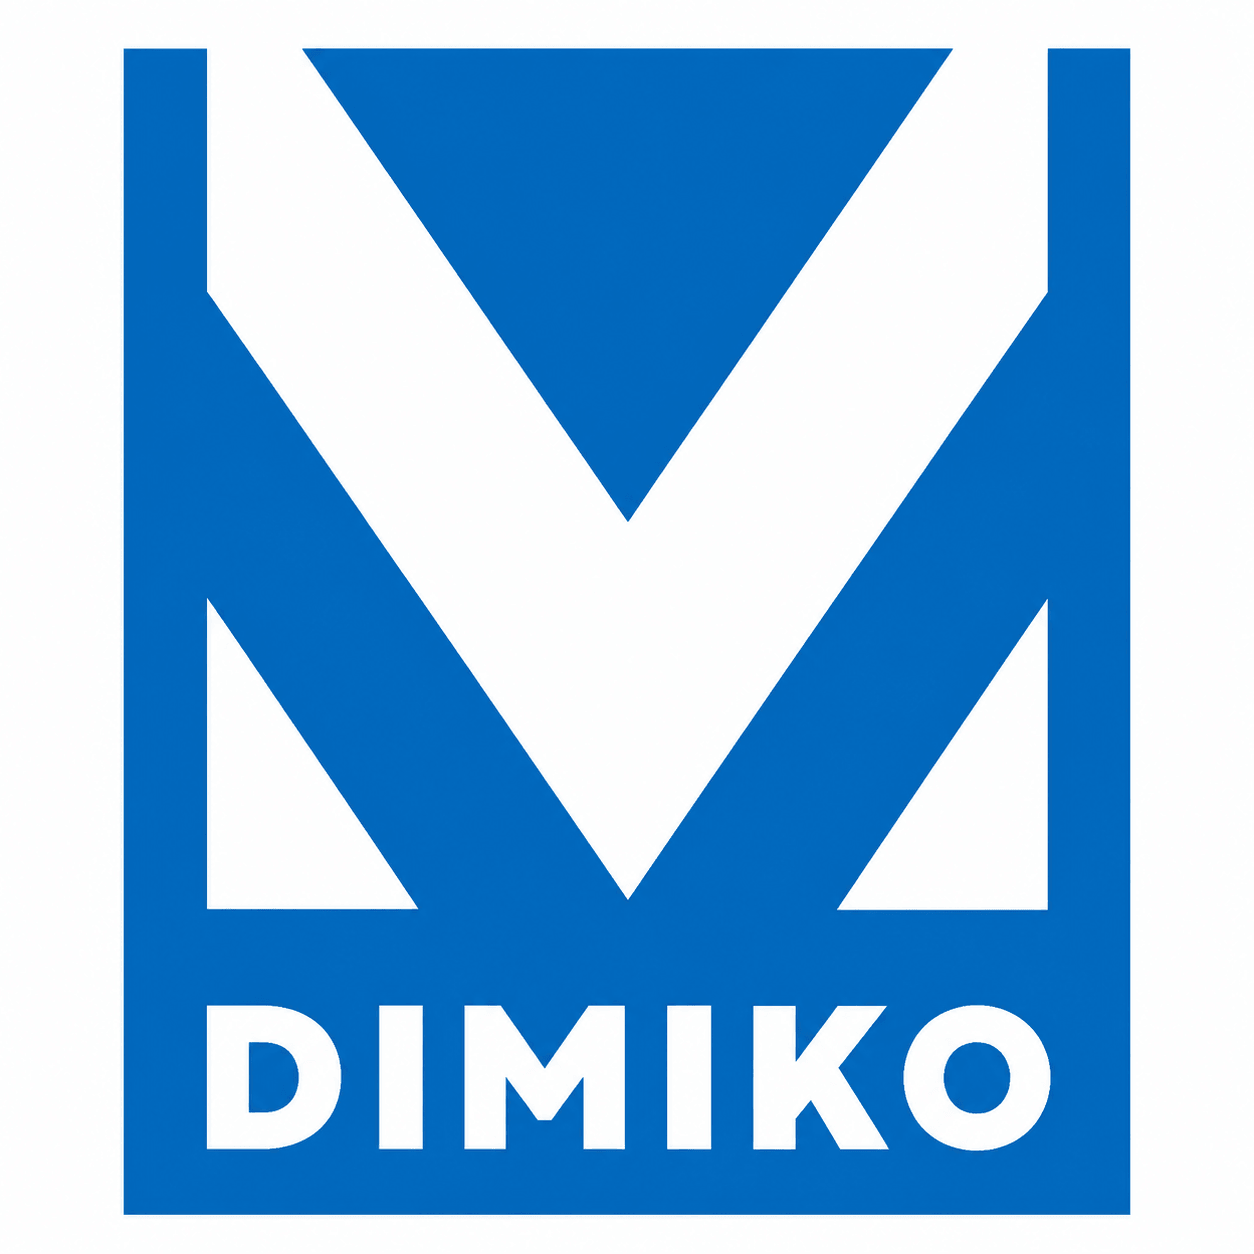
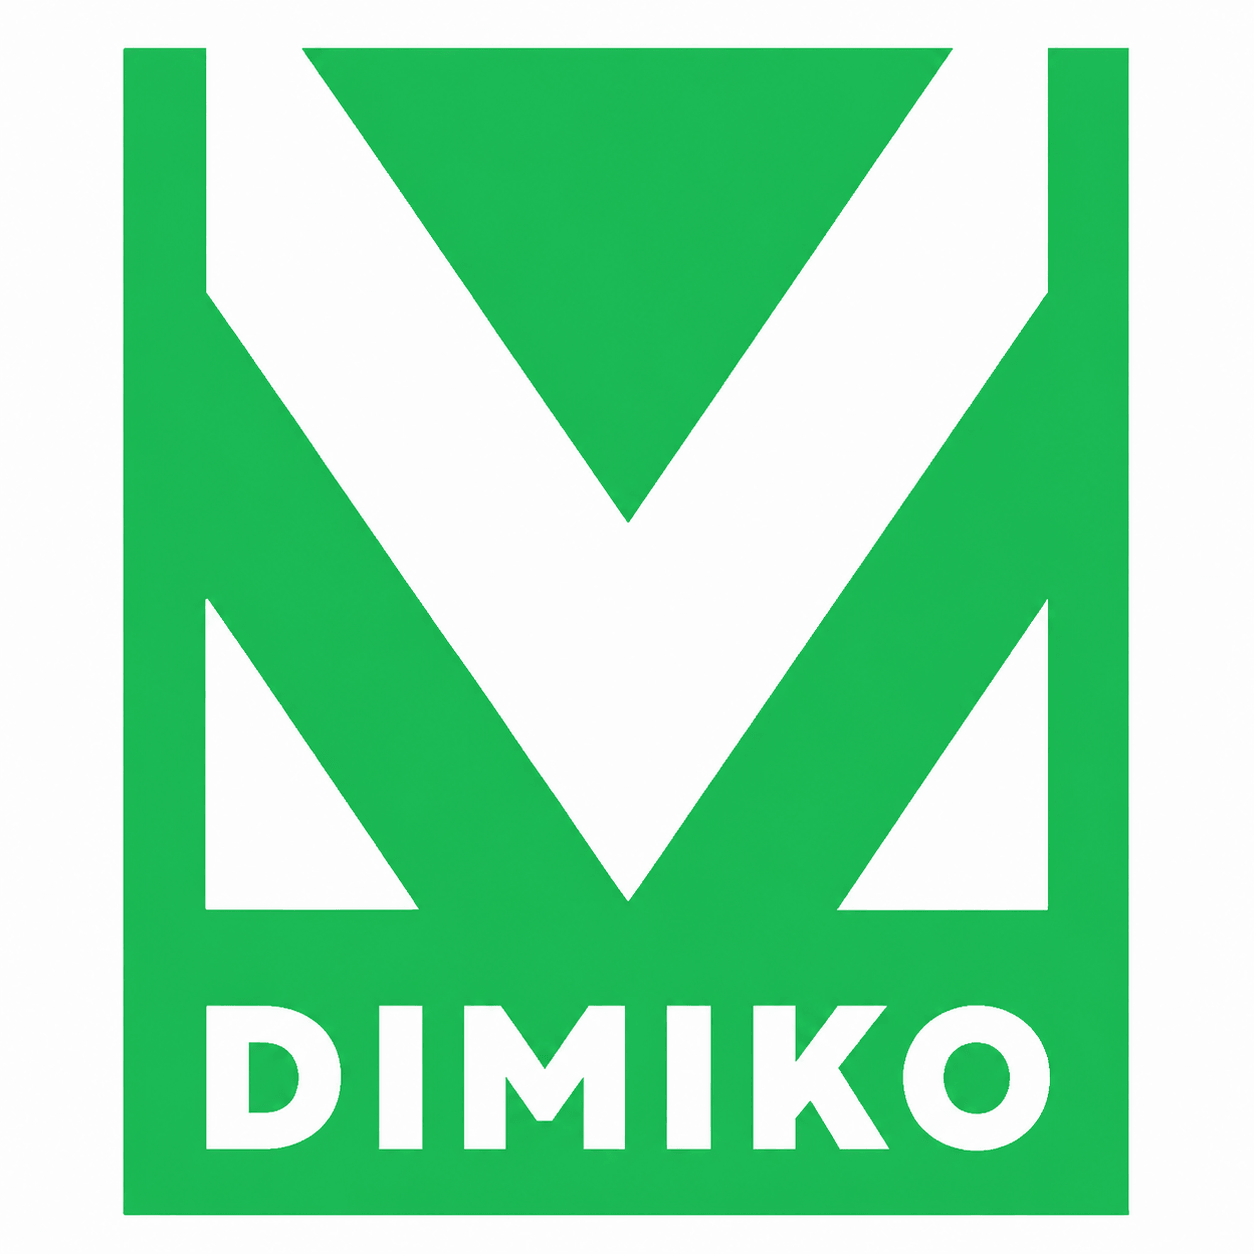
docs: 調整 README

diff --git a/ECommerce.Web/wwwroot/css/site.css b/ECommerce.Web/wwwroot/css/site.css
@@ -68,19 +68,6 @@
     filter: brightness(0.9);
 }
 
-/* Click animation for product cards */
-/*@keyframes pulse-ring {
-    0% {
-        transform: scale(1);
-        opacity: 1;
-    }
-
-    100% {
-        transform: scale(1.3);
-        opacity: 0;
-    }
-}*/
-
 .product-card-clicked {
     animation: cardPulse 0.3s ease;
 }
@@ -877,8 +864,8 @@
 }
 
 .site-brand-name {
-    color: #006fbc;
-    font-size: 1.25rem;
+    /* color: #006fbc; */
+    color: #1DB954;
     font-weight: 700;
     letter-spacing: 0.02em;
 }
@@ -1042,7 +1029,7 @@
 }
 
 .site-drawer-brand span {
-    color: #006fbc;
+    color: #1DB954;
     font-size: 1.1rem;
     font-weight: 700;
 }

diff --git a/ECommerce.DataAccess/Data/ApplicationDbContext.cs b/ECommerce.DataAccess/Data/ApplicationDbContext.cs
@@ -429,7 +429,6 @@ namespace ECommerce.DataAccess.Data
 			);
 
 
-
 		}
 
 	}
